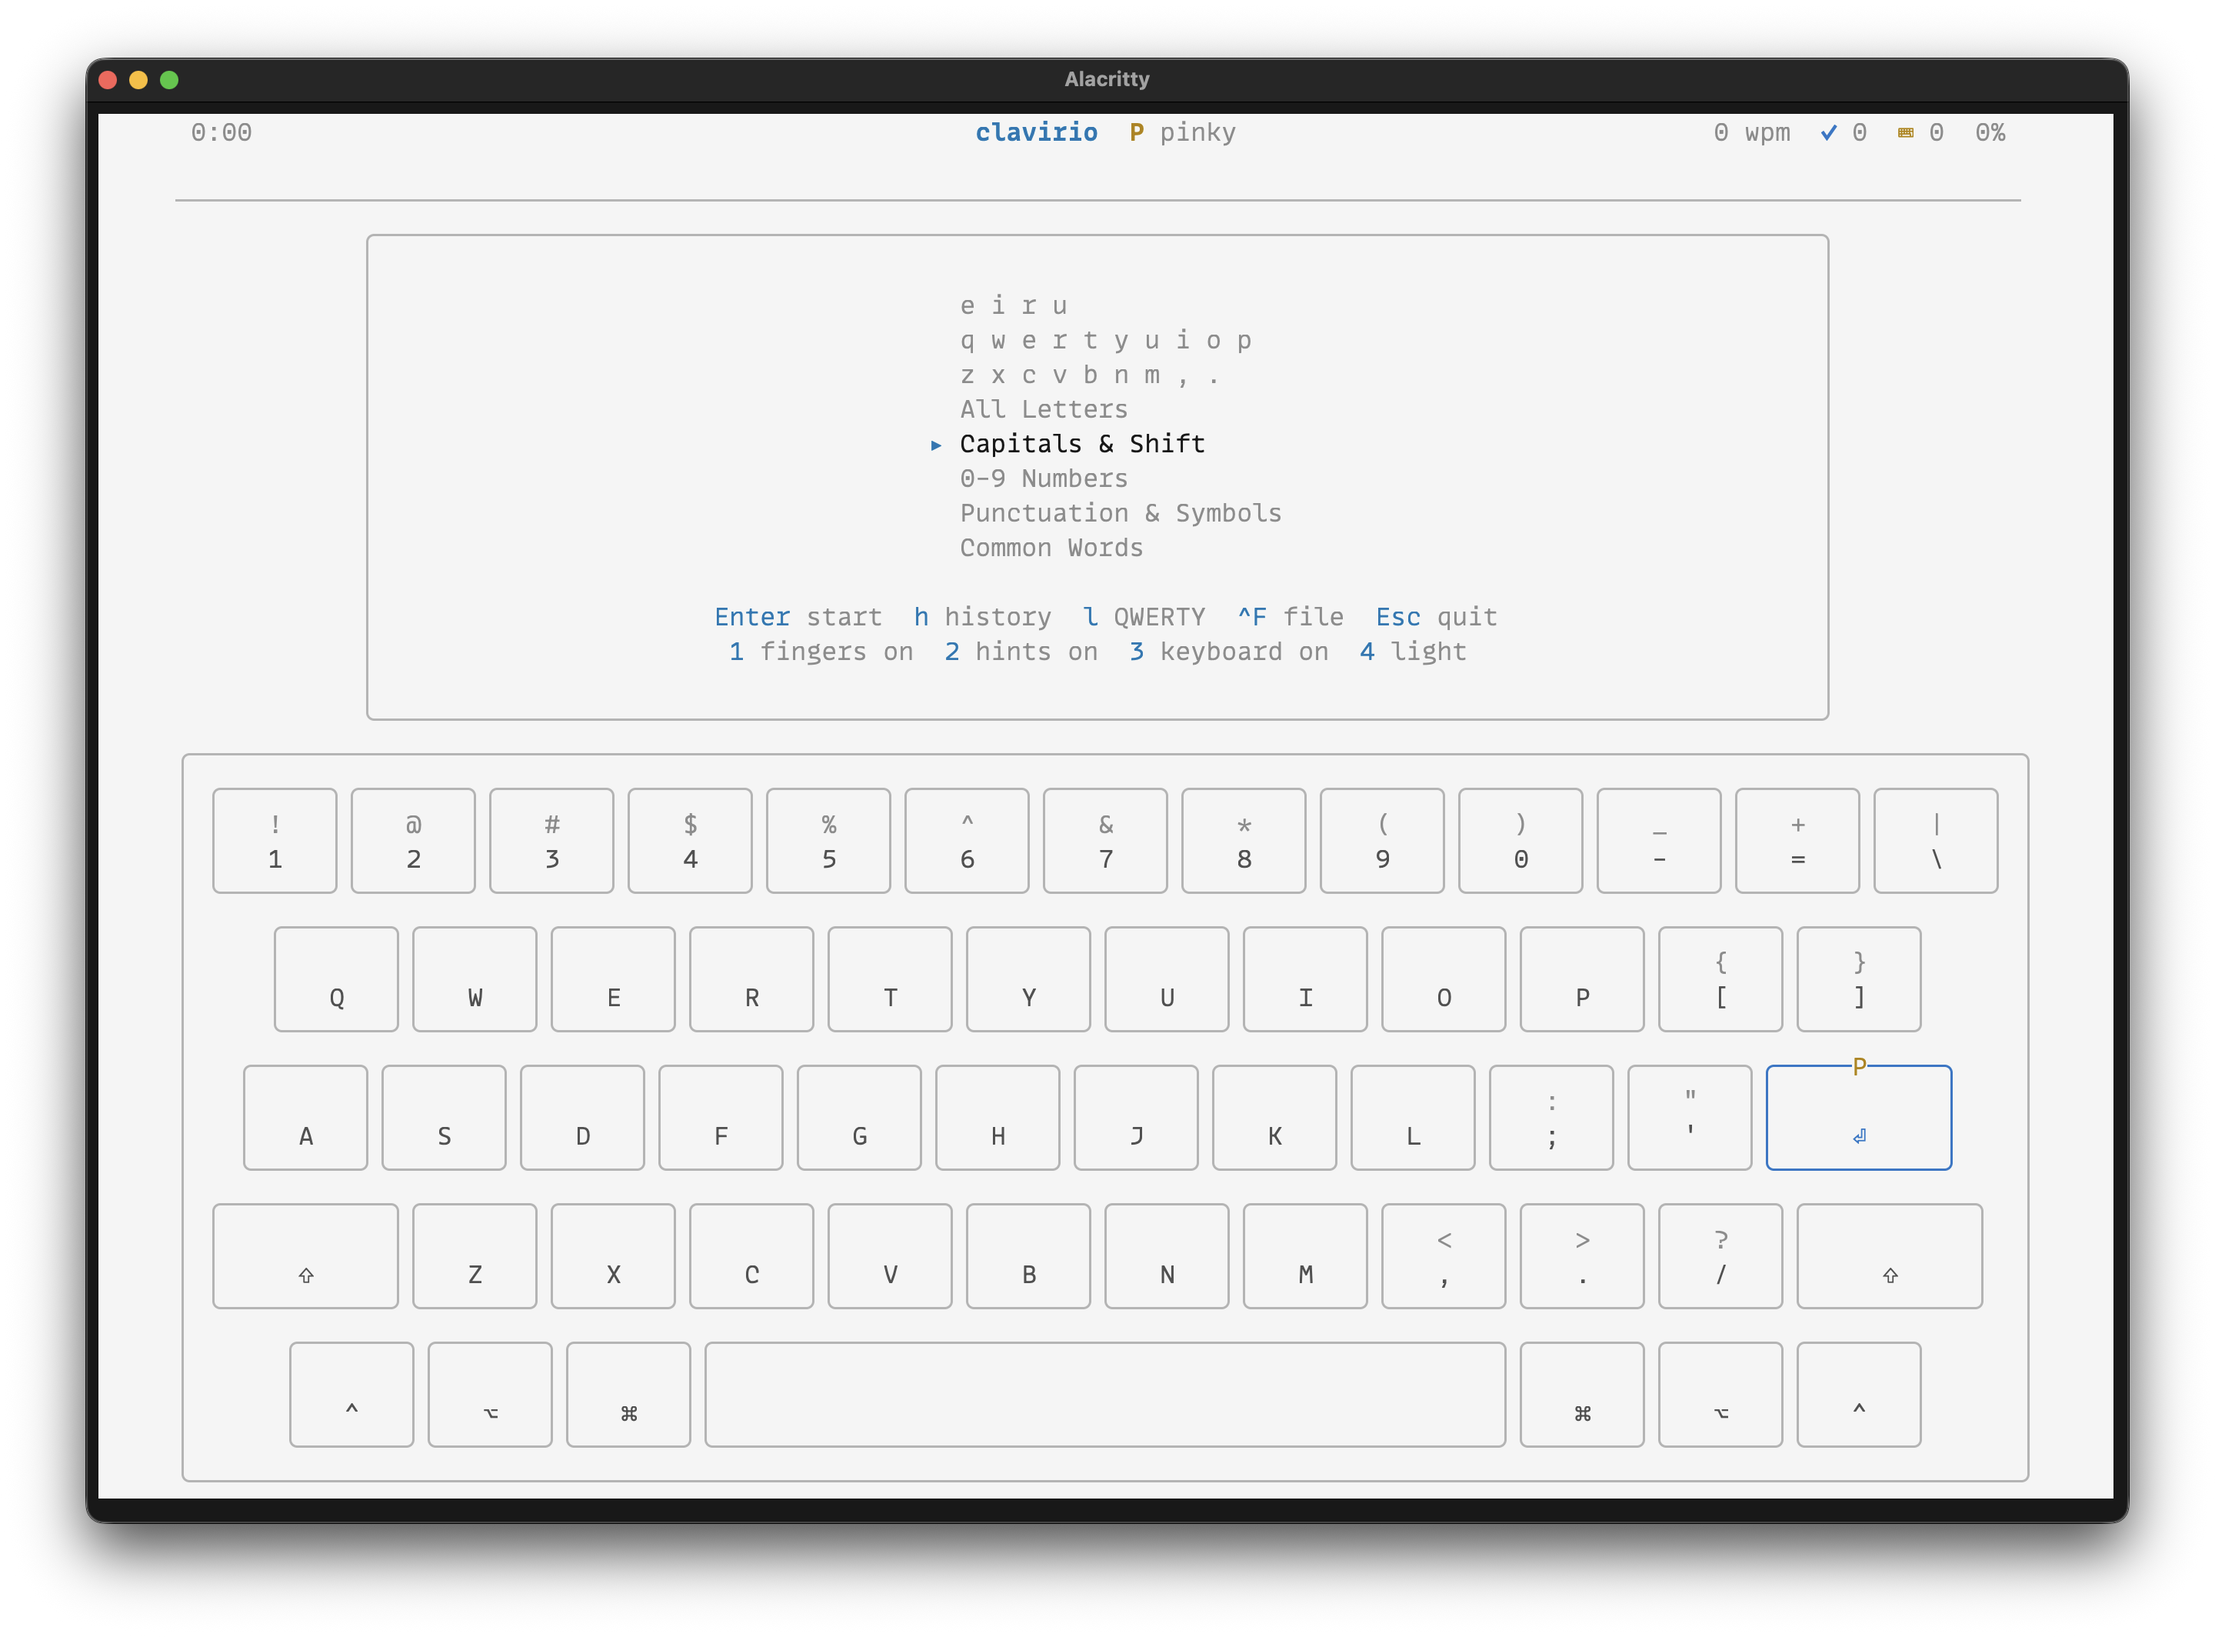
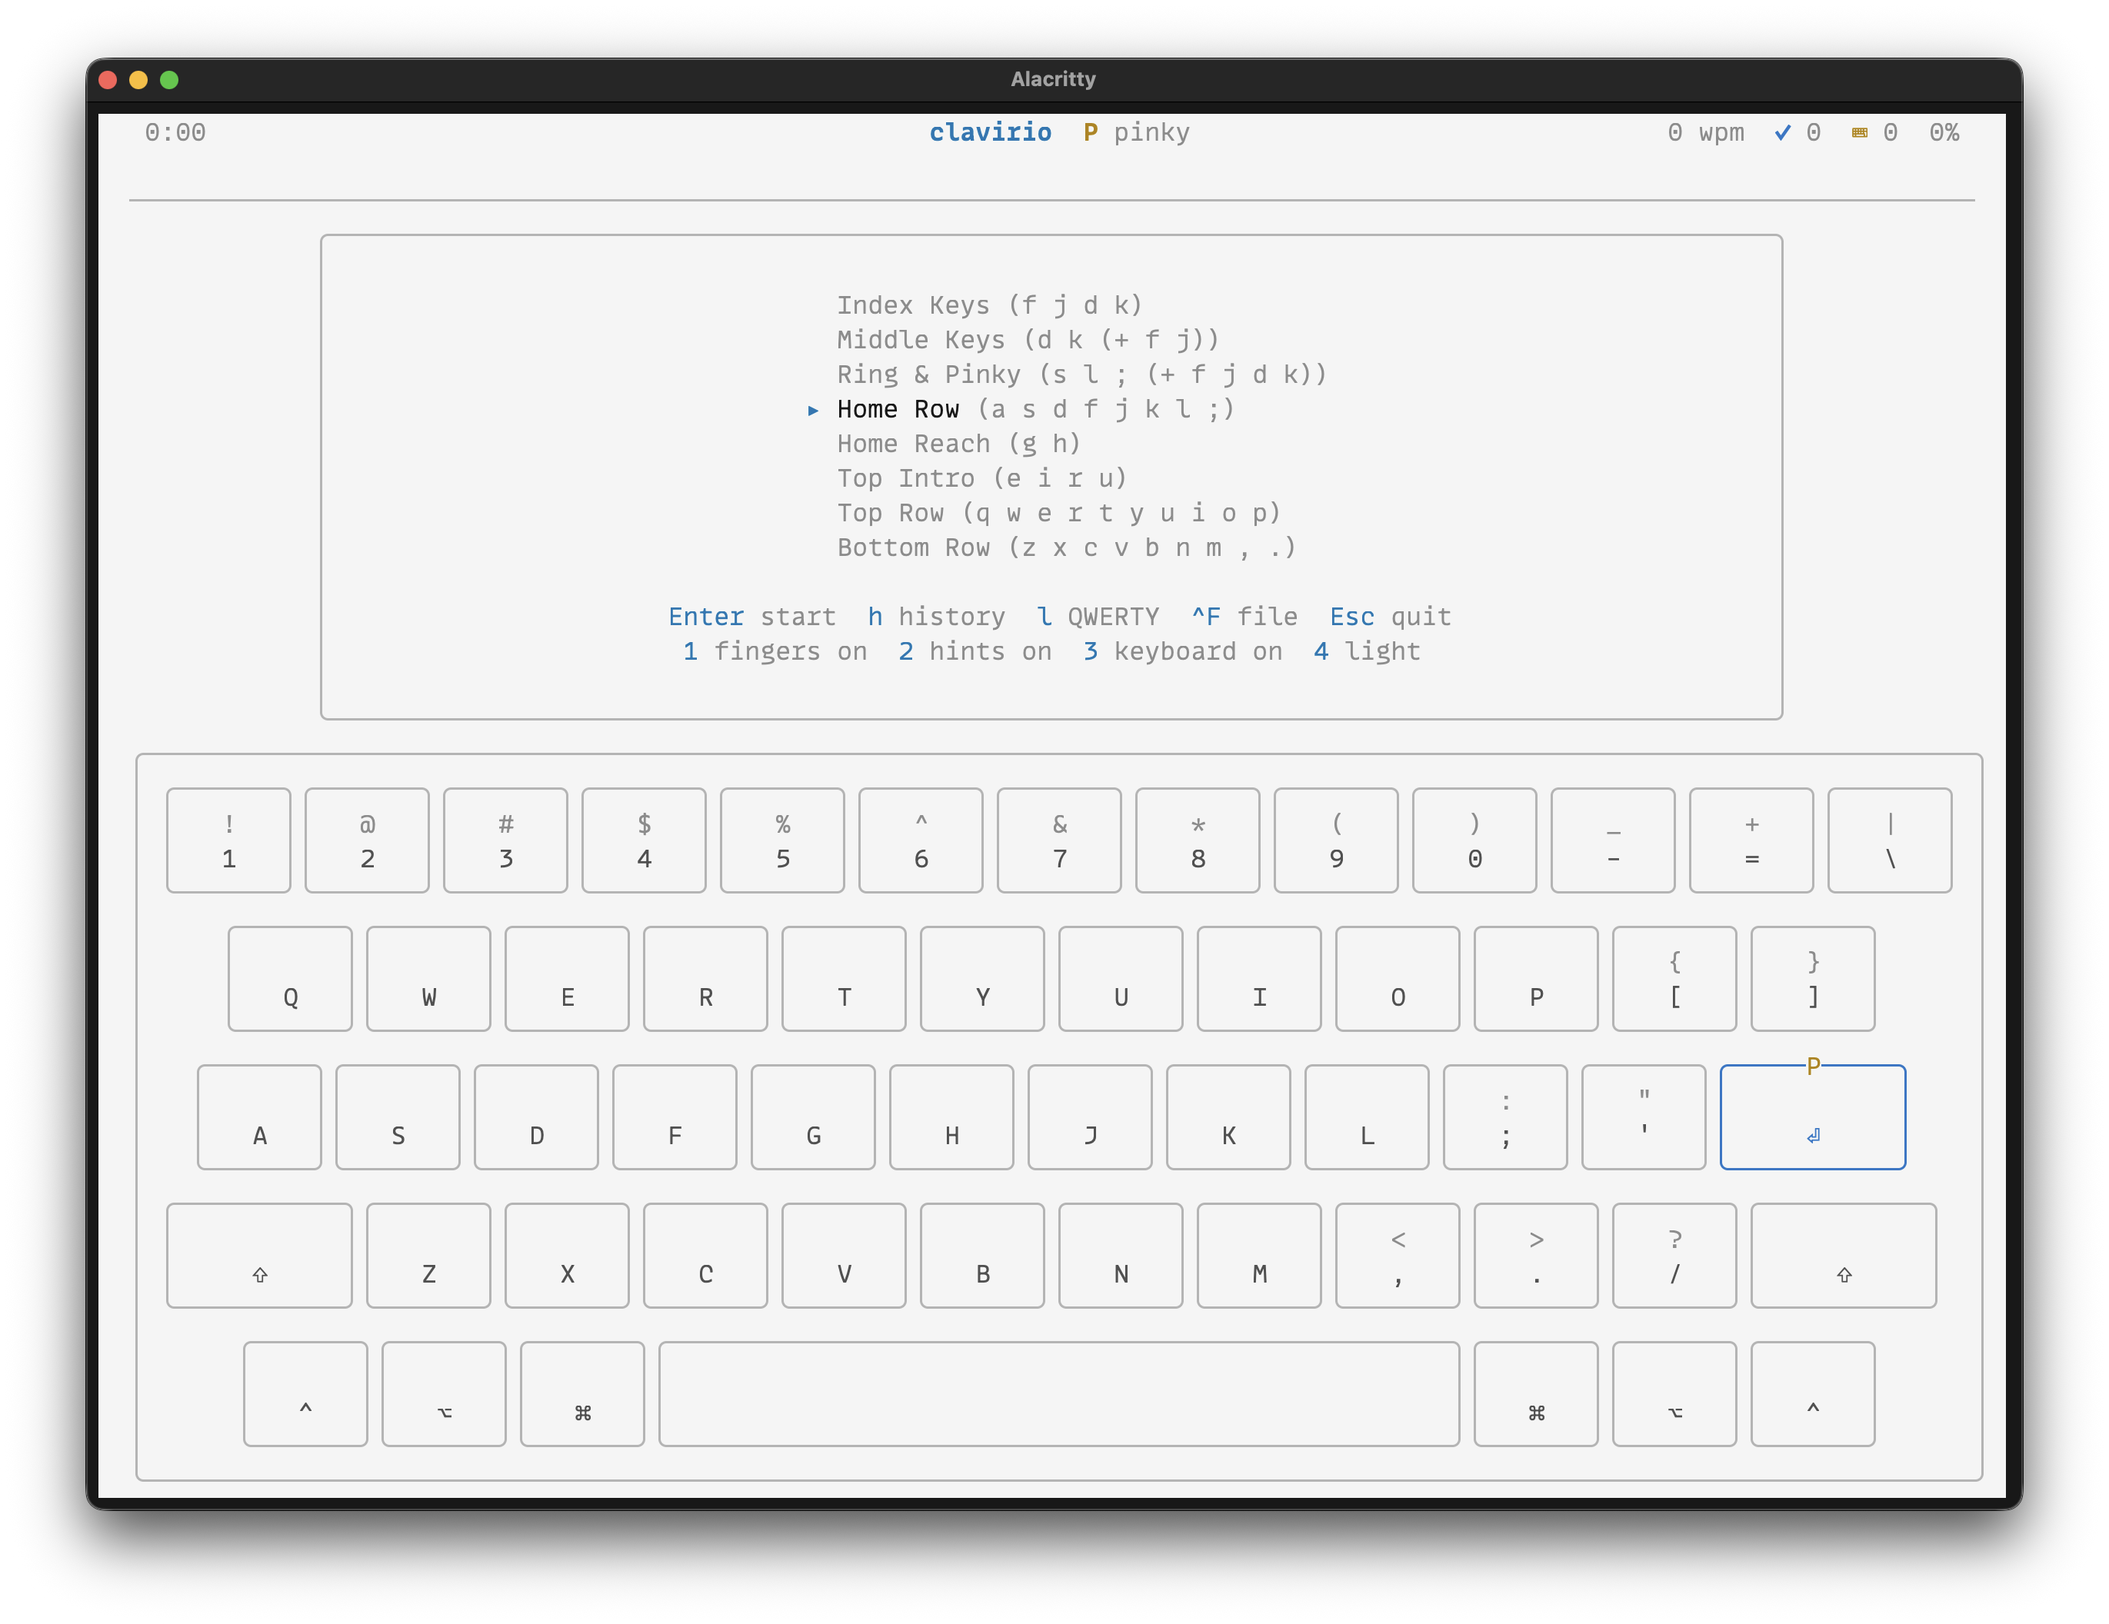
update readme, screenshots; bump version

diff --git a/README.md b/README.md
@@ -14,7 +14,7 @@ A terminal typing tutor built with Rust and [ratatui](https://ratatui.rs). Pract
 
 ## Features
 
-- **15 built-in lessons** — progressive drills from home row basics to full paragraphs and code, ordered by difficulty
+- **15 built-in lessons** — progressive drills from home row basics to full paragraphs and code; lessons 1–9 are tailored to each keyboard layout, lessons 10–15 are shared
 - **Live stats** — WPM, accuracy %, elapsed time, keystrokes, and line progress update as you type
 - **Keyboard layouts** — supports QWERTY, Dvorak, and Colemak; switch with `l` on the main menu
 - **Virtual keyboard** — highlights the expected next key (including Shift) with a finger hint (**P**inky, **R**ing, **M**iddle, **I**ndex, **T**humb) on the top border; adapts to macOS and PC layouts
@@ -28,17 +28,22 @@ A terminal typing tutor built with Rust and [ratatui](https://ratatui.rs). Pract
 
 ## Lessons
 
+Lessons 1–9 are **layout-specific** (each layout has its own drills matched to that layout's finger positions). Lessons 10–15 are **shared** across all layouts.
+
+| # | Lesson | QWERTY | Dvorak | Colemak |
+|---|--------|--------|--------|---------|
+| 1 | Index Keys | f j | u h | t n |
+| 2 | Middle Keys | d k (+ f j) | e t (+ u h) | s e (+ t n) |
+| 3 | Ring & Pinky | s l ; (+ f j d k) | o n s (+ a) | r i o (+ a) |
+| 4 | Home Row | a s d f j k l ; | a o e u i d h t n s | a r s t d h n e i o |
+| 5 | Home Reach | g h | i d | d h |
+| 6 | Top Intro | e i r u | p c r l | f p l u |
+| 7 | Top Row | q w e r t y u i o p | ' , . p y f g c r l | q w f p g j l u y ; |
+| 8 | Bottom Row | z x c v b n m , . | ; q j k x b m w v z | z x c v b k m , . |
+| 9 | All Letters | Pangrams | Pangrams | Pangrams |
+
 | # | Lesson | Focus |
 |---|--------|-------|
-| 1 | f j d k | Index fingers |
-| 2 | d k (+ f j) | Index + middle fingers |
-| 3 | s l ; (+ f j d k) | Ring + pinky fingers |
-| 4 | a s d f j k l ; | Full home row |
-| 5 | g h (home row) | Home row complete |
-| 6 | e i r u | Top row reach |
-| 7 | q w e r t y u i o p | Full top row |
-| 8 | z x c v b n m , . | Bottom row |
-| 9 | All Letters | Pangrams |
 | 10 | Capitals & Shift | Mixed case |
 | 11 | 0-9 Numbers | Numbers in context |
 | 12 | Punctuation & Symbols | Special characters |
